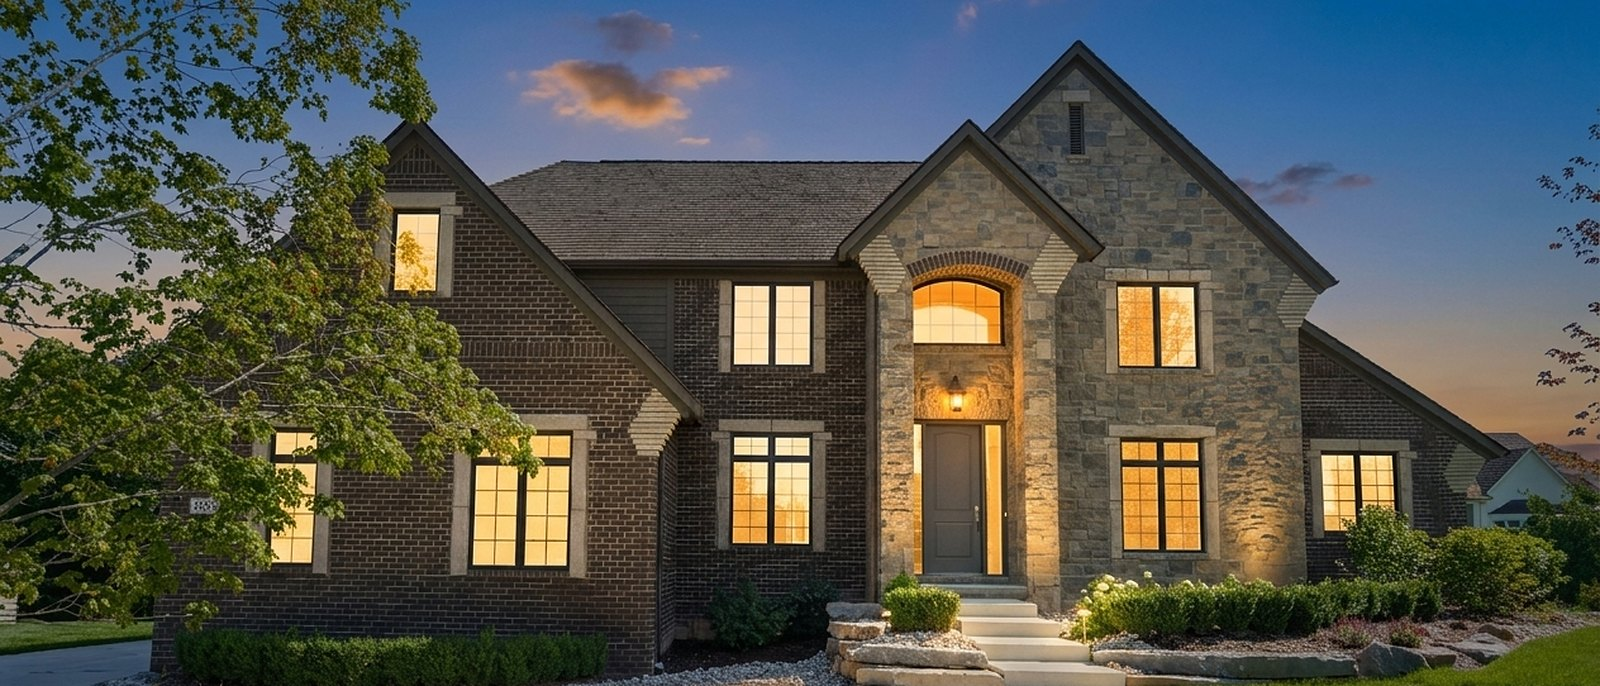
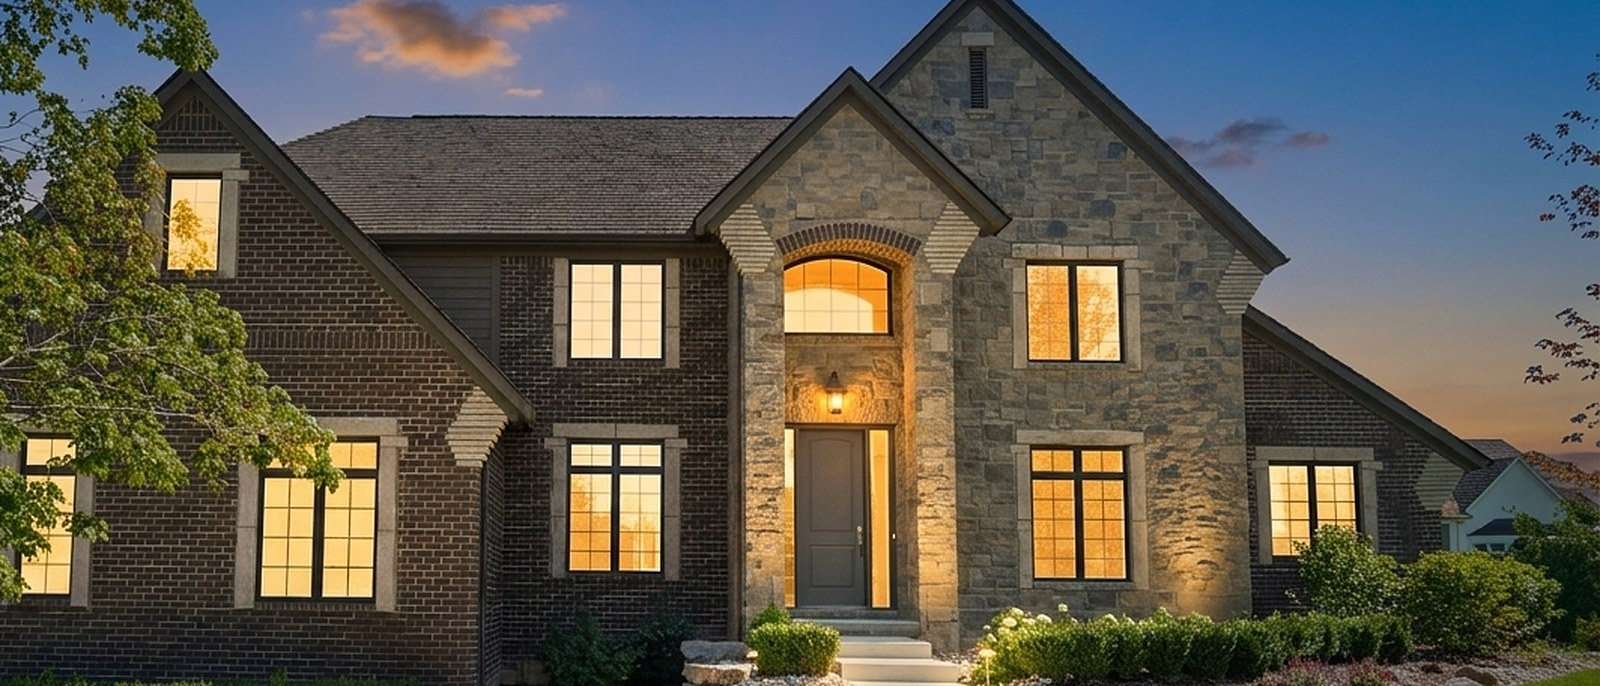
Update live site files

diff --git a/for-sale/index.html b/for-sale/index.html
@@ -38,7 +38,7 @@
     </div>
   </header>
   <main id="main">
-    <section class="hero page-hero" aria-labelledby="page-title"><div class="slides" data-n="3"><img src="../assets/images/slide-stratford.jpg" alt="The Stratford at twilight" width="1600" height="686" fetchpriority="high"><img src="../assets/images/slide-crestwood-front.jpg" alt="The Crestwood at twilight" width="1600" height="686" loading="lazy"><img src="../assets/images/slide-crestwood-aerial.jpg" alt="Twilight aerial view of The Crestwood" width="1600" height="686" loading="lazy"></div><div class="hero-copy"><h1 id="page-title">Homes <em>For Sale</em></h1></div></section>
+    <section class="hero page-hero" aria-labelledby="page-title"><div class="slides" data-n="3"><img src="../assets/images/slide-stratford.jpg" alt="The Stratford at twilight" width="1600" height="686" fetchpriority="high"><img src="../assets/images/slide-majestic.jpg" alt="The Majestic at twilight" width="1600" height="686" loading="lazy"><img src="../assets/images/slide-crestwood-front.jpg" alt="The Crestwood at twilight" width="1600" height="686" loading="lazy"></div><div class="hero-copy"><h1 id="page-title">Homes <em>For Sale</em></h1></div></section>
     <section class="page-body">
       <div class="wrap"><div class="prose">
       <p>Looking for a home in the Metro Detroit area? Our agents will gladly meet with you and conduct a personalized search based on your needs and preferences.</p>
